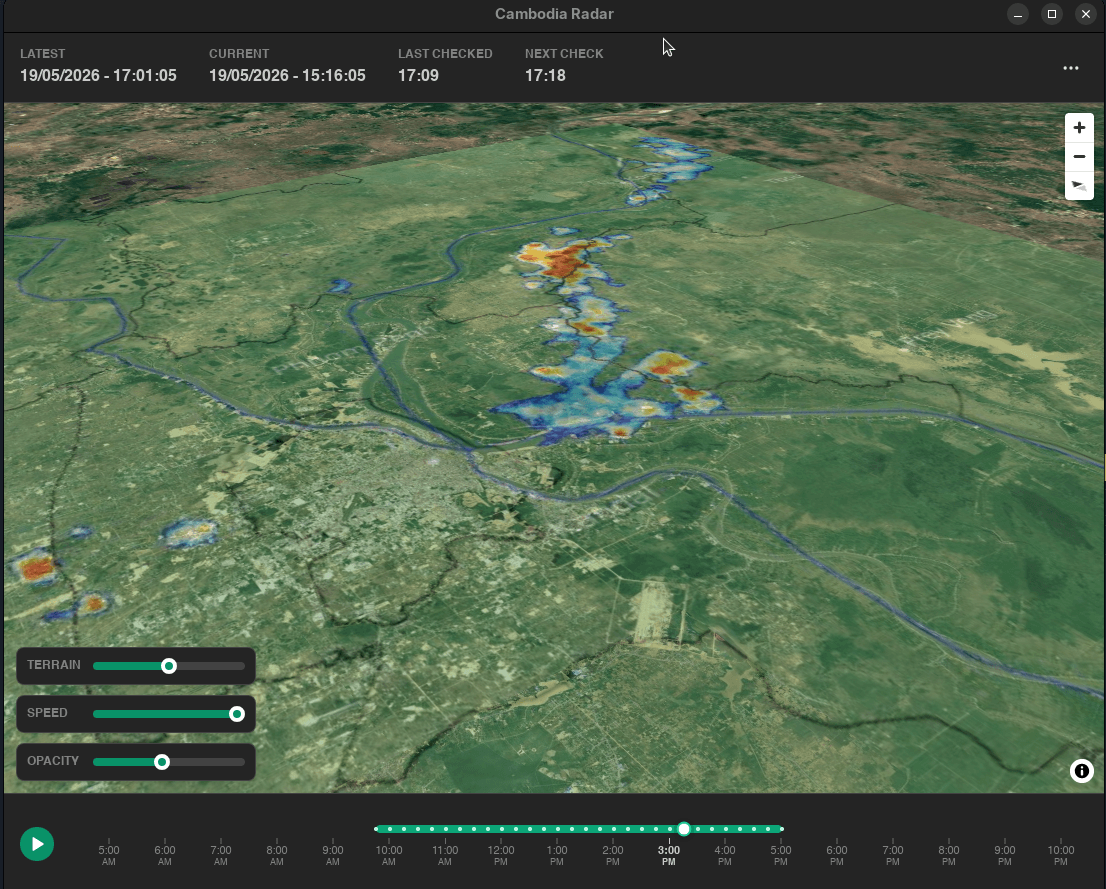
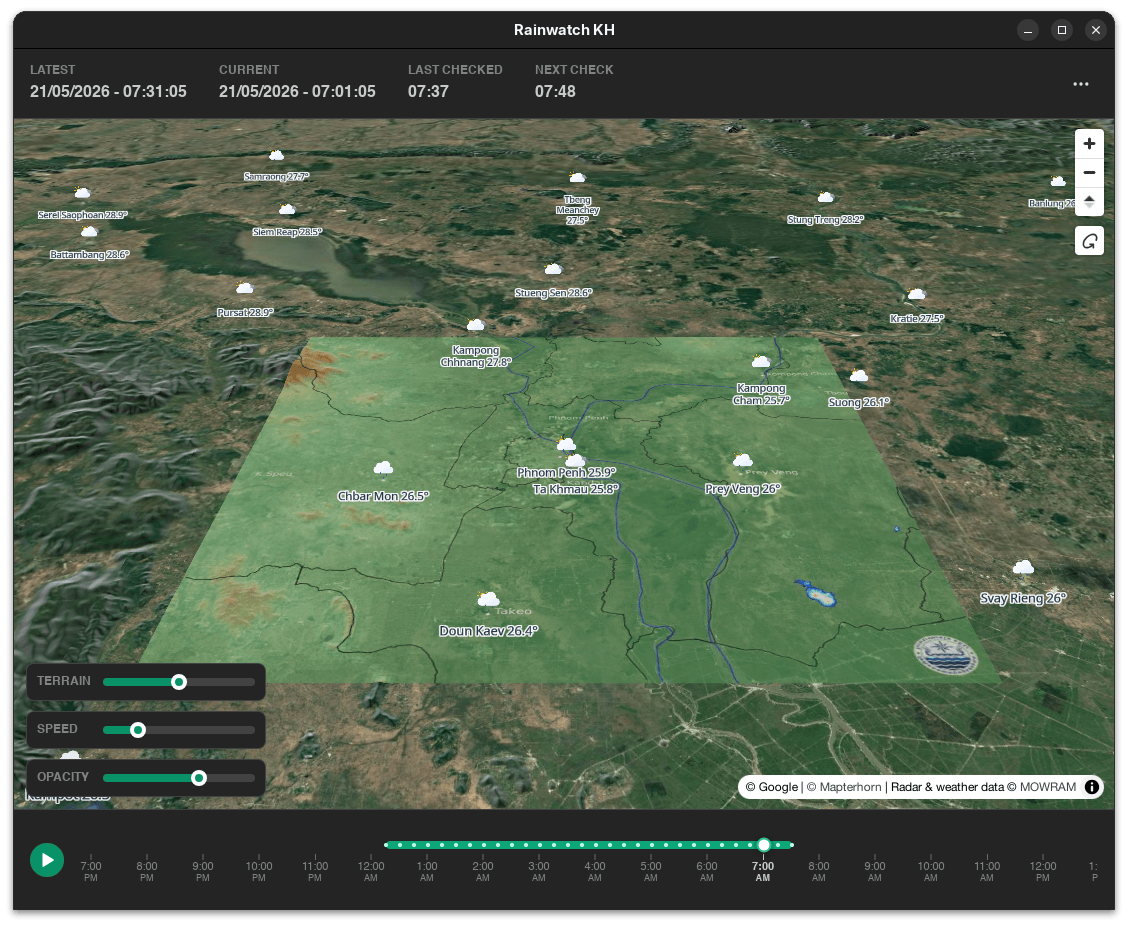
feat: 🎸 updated readme, landing

diff --git a/landing/src/App.tsx b/landing/src/App.tsx
@@ -55,8 +55,14 @@ export function App() {
             <List.Item>
               Cambodia Meteo radar — PHN (80 km), 240 km, and Cambodia (450 km) domains
             </List.Item>
-            <List.Item>MapLibre GL with a georeferenced radar overlay</List.Item>
-            <List.Item>On-screen georeference panel to fine-tune image corners</List.Item>
+            <List.Item>
+              Animated playback with timeline scrubber and adjustable speed
+            </List.Item>
+            <List.Item>
+              Hourly weather forecasts and provincial capital conditions from Open-Meteo
+            </List.Item>
+            <List.Item>3D terrain with switchable basemap styles</List.Item>
+            <List.Item>Auto-rotate when idle for ambient display</List.Item>
             <List.Item>Native installers for Linux, Windows, and macOS</List.Item>
           </List>
         </Stack>

diff --git a/README.md b/README.md
@@ -5,6 +5,15 @@ built with [Tauri v2](https://v2.tauri.app/).
 
 ![rainwatch-kh screenshot](rainwatch-kh.png)
 
+## Features
+
+- Cambodia Meteo radar — PHN (80 km), 240 km, and Cambodia (450 km) domains
+- Animated playback with timeline scrubber and adjustable speed
+- Hourly weather forecasts and provincial capital conditions from Open-Meteo
+- 3D terrain with switchable basemap styles
+- Auto-rotate when idle for ambient display
+- Native installers for Linux, Windows, and macOS
+
 ## Develop
 
 ```bash
@@ -86,9 +95,16 @@ Edit `styleUrl` to use a trusted MapLibre style URL, and tune each domain's
 radar overlay.
 
 The app crops the left `800x800` radar panel from each `1069x800` Cambodia
-Meteo frame and renders it as a MapLibre `image` source. Use the on-screen
-georeference panel to adjust the four image corners and copy updated config
-values.
+Meteo frame and renders it as a MapLibre `image` source.
+
+### Re-calibrating corner coordinates (dev only)
+
+Run `npm run tauri dev -- --calibrate` (or `--debug-positioning`) to enable an
+on-screen panel for nudging the four corners, scaling, and rotating the
+overlay; it prints an updated `coordinates` snippet to paste back into
+`map-config.ts`. The panel is gated by `is_calibration_enabled` in
+`src-tauri/src/lib.rs` and is hidden in release builds — it is not part of the
+end-user UI.
 
 MapLibre styles must provide their own tile sources, glyphs, sprites, and
 attribution. Do not use `mapbox://` style URLs or commit provider API keys.